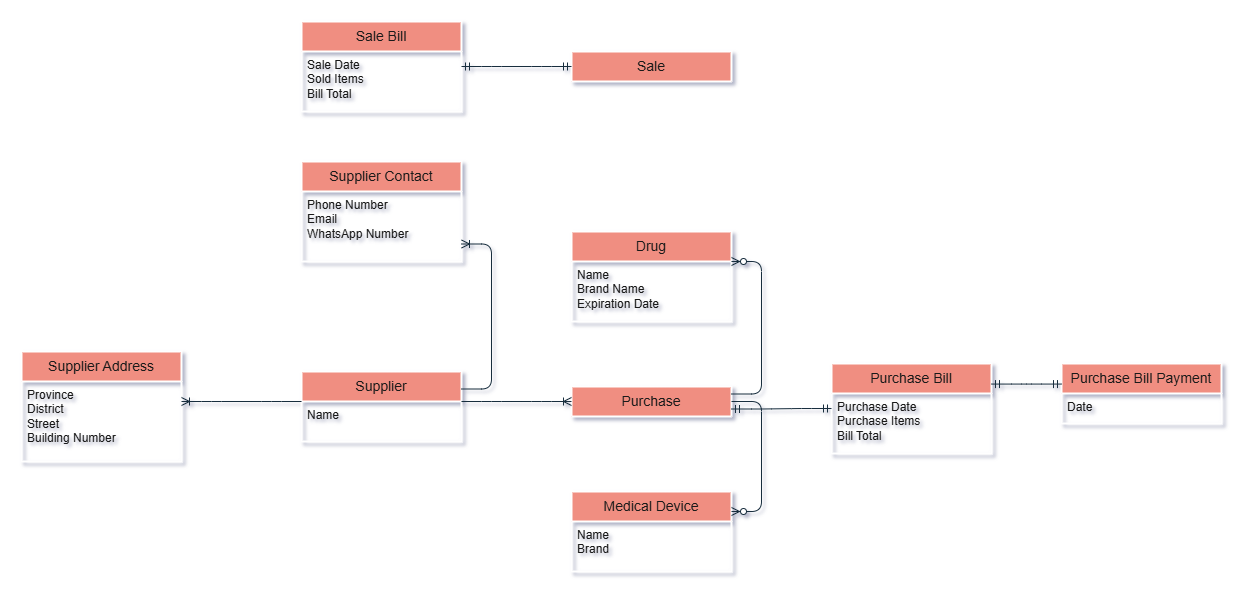
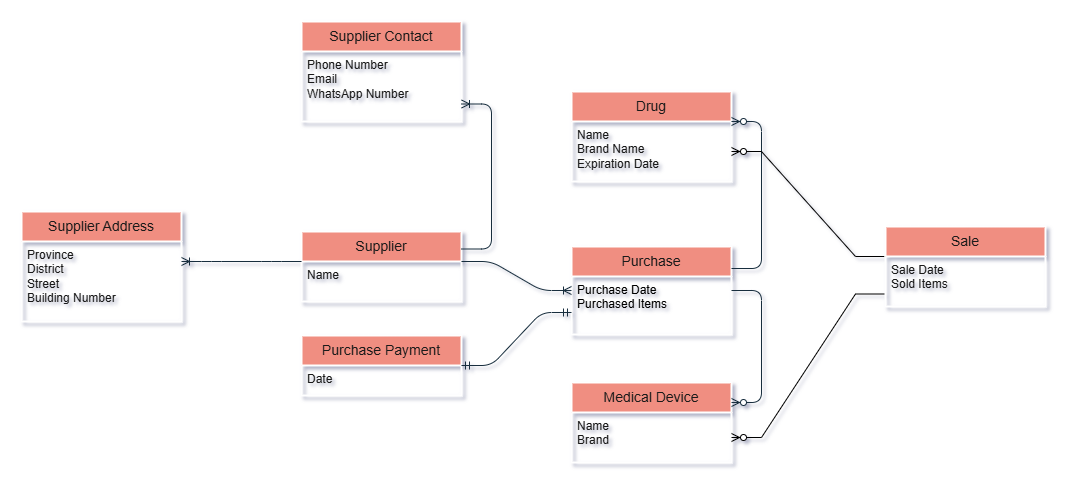
ERD updated

Changed region(s): [[0.0, 0.1837, 0.9851, 0.9796], [0.2155, 0.0306, 0.6157, 0.2143], [0.431, 0.1837, 0.4618, 0.2449]]

diff --git a/Maihan Pharmacy Database System/README.md b/Maihan Pharmacy Database System/README.md
@@ -16,26 +16,15 @@ In this project, I design and implement the database that will serve as the foun
 ## Conceptual Design
 ### Domain Objects
 - **Core Objects**
-    - Purchase: Handle acquisition of drugs and medical devices from suppliers
+    - Purchase: 
     - Medical Device
     - Drug
-    - Sale: Handle Selling drugs and medical devices to customers
-
+    - Sale
 - **Supporting Objects**    
-    - Supplier
-    - Supplier Contact: Communication details of supplier
-    - Supplier Address: Location details of supplier
-    - Purchase Bill: Holds the complete bill information for a purchase
-    - Payment: Payment details for a purchase bill
-    - Sale Bill: Holds the complete bill information for a sale
- 
-### Objects Relationships
-- Each Purchase is made from one Supplier
-- Each Supplier has one or more Addresses and Contacts
-- Each Purchase may include many Drugs and Medical Devices
-- Each Purchase generates one Purchase Bill
-- Each Purchase Bill generates one Payment
-- Each Sale generates one Sale Bill
+    - Supplier: Information about suppliers.
+    - Supplier Contact: Contact information for suppliers.
+    - Supplier Address: Address information for suppliers.
+    - Purchase Payment: Payment details for purchase
 
 ### Objects Attributes
 - **Supplier**
@@ -49,11 +38,7 @@ In this project, I design and implement the database that will serve as the foun
     - Phone Number
     - Email
     - Whatspp Number
-- **Purchase Bill**
-    - Purchase Date
-    - Purchased Items
-    - Bill Total
-- **Purchase Bill Payment**
+- **Purchase Payment**
     - Date
 - **Medical Device**
     - Name
@@ -63,11 +48,11 @@ In this project, I design and implement the database that will serve as the foun
     - Brand Name
     - Expiration Date
 - **Purchase**
-- **Sale Bill**
+    - Purchase Date
+    - Purchased Items
+- **Sale**
     - Sale Date
     - Sold Items
-    - Bill Total
-- **Sale**
 
 ### ERD
 ![ERD](Assets/ERD.png)